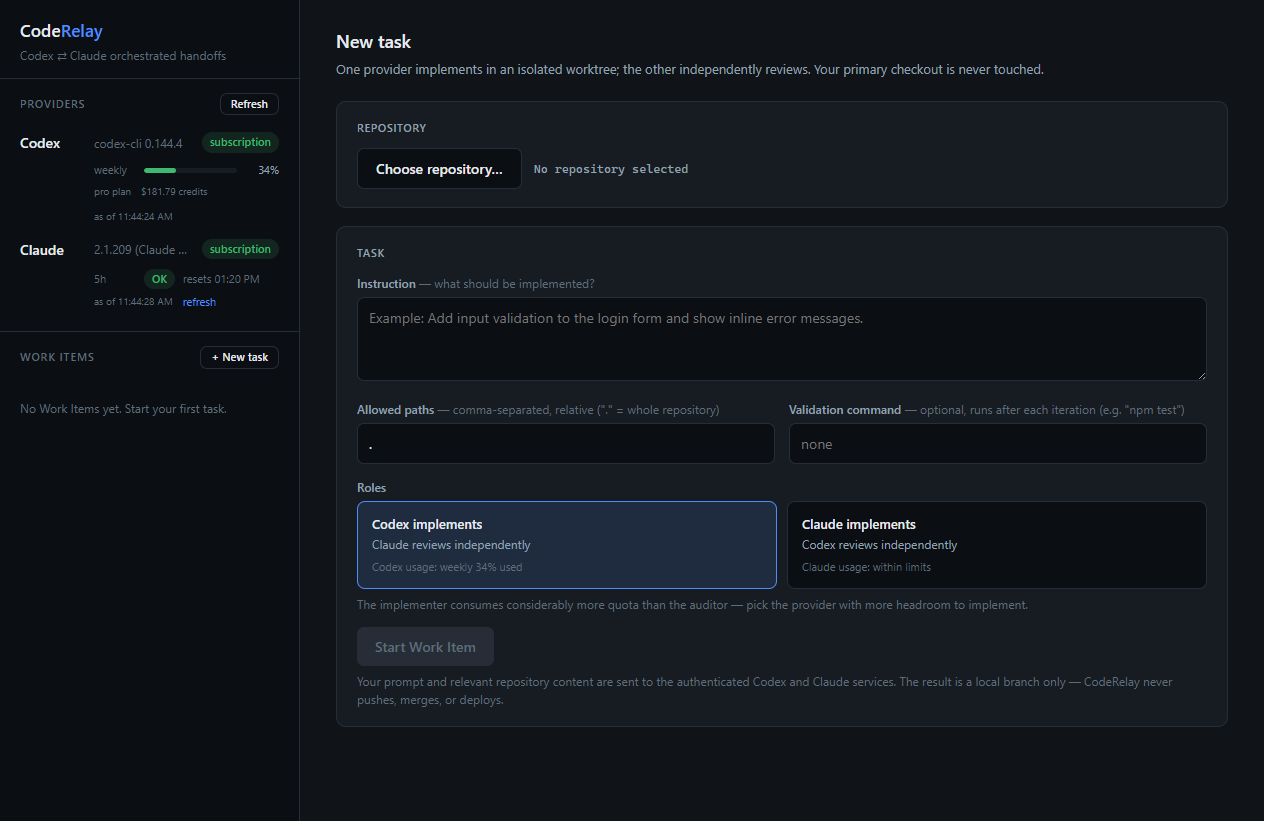
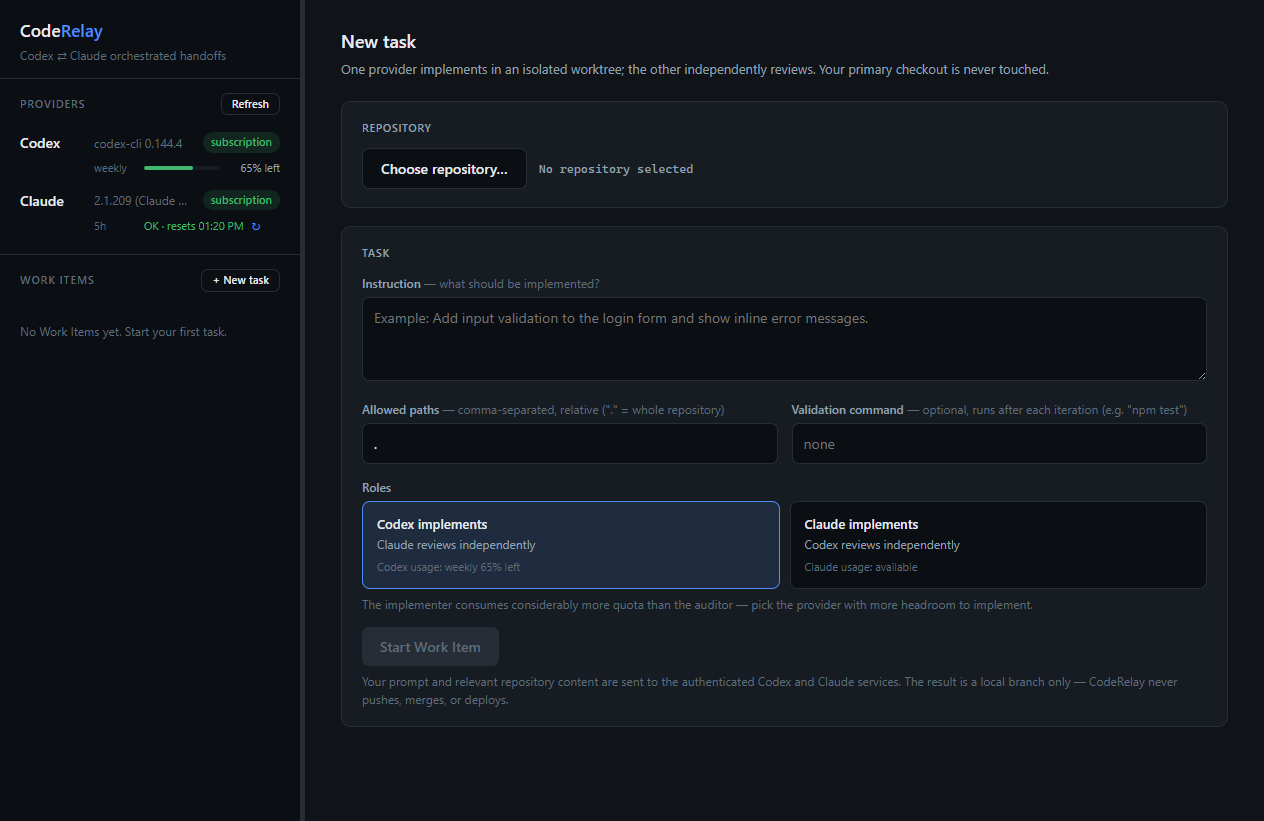
Show remaining quota instead of used, and add IDE-style panel resizing
Usage lines now display percent LEFT (bar length = headroom; green with
plenty, red when nearly exhausted) in a single compact line per window,
with plan, credits, reset time, and capture time folded into a hover
tooltip. The Claude status line is one row with an inline refresh probe.
Role-card hints follow the same remaining-quota wording.

The sidebar/main border is a draggable splitter (220-560px, persisted in
localStorage) and the work item timeline is vertically resizable.

diff --git a/src/app/renderer/App.tsx b/src/app/renderer/App.tsx
@@ -1,5 +1,5 @@
 import { useCallback, useEffect, useMemo, useRef, useState } from "react";
-import type { JSX } from "react";
+import type { JSX, MouseEvent as ReactMouseEvent } from "react";
 import type { PreflightSummary, ProviderStatusEntry, ProviderUsage, WorkItemDetail, WorkItemRow } from "./global.js";
 
 type ProviderPair = { codex: ProviderStatusEntry; claude: ProviderStatusEntry };
@@ -34,17 +34,26 @@ function epochLabel(seconds: number): string {
   return sameDay ? time : `${date.toLocaleDateString([], { month: "short", day: "numeric" })} ${time}`;
 }
 
-function usedBarClass(percent: number): string {
-  if (percent >= 90) return "bad";
-  if (percent >= 70) return "warn";
+function remainingBarClass(remaining: number): string {
+  if (remaining <= 10) return "bad";
+  if (remaining <= 30) return "warn";
   return "good";
+}
+
+function usageTooltip(usage: ProviderUsage, resetsAt?: number | null): string {
+  const parts: string[] = [];
+  if (resetsAt) parts.push(`Resets ${epochLabel(resetsAt)}`);
+  if (usage.planType) parts.push(`${usage.planType} plan`);
+  if (usage.creditsBalance) parts.push(`$${Number(usage.creditsBalance).toFixed(2)} credits`);
+  parts.push(`As of ${timeOf(usage.capturedAt)}`);
+  return parts.join(" · ");
 }
 
 function UsageLines({ usage, onProbe, probing }: { usage: ProviderUsage | null | undefined; onProbe?: () => void; probing?: boolean }): JSX.Element {
   if (!usage) {
     return (
       <div className="usage-block">
-        <span className="usage-note">No usage data yet</span>
+        <span className="usage-note">no usage data</span>
         {onProbe && (
           <button className="linkish" onClick={onProbe} disabled={probing} title="Runs one minimal Claude request to read the current limit status">
             {probing ? "checking…" : "check now"}
@@ -55,32 +64,30 @@ function UsageLines({ usage, onProbe, probing }: { usage: ProviderUsage | null |
   }
   return (
     <div className="usage-block">
-      {usage.windows.map((window) => (
-        <div className="usage-line" key={window.label} title={window.resetsAt ? `Resets ${epochLabel(window.resetsAt)}` : undefined}>
-          <span className="usage-label">{window.label}</span>
-          <span className="usage-bar"><span className={`usage-fill ${usedBarClass(window.usedPercent)}`} style={{ width: `${Math.min(100, window.usedPercent)}%` }} /></span>
-          <span className="usage-percent">{Math.round(window.usedPercent)}%</span>
-        </div>
-      ))}
+      {usage.windows.map((window) => {
+        const remaining = Math.max(0, Math.round(100 - window.usedPercent));
+        return (
+          <div className="usage-line" key={window.label} title={usageTooltip(usage, window.resetsAt)}>
+            <span className="usage-label">{window.label}</span>
+            <span className="usage-bar"><span className={`usage-fill ${remainingBarClass(remaining)}`} style={{ width: `${remaining}%` }} /></span>
+            <span className="usage-percent">{remaining}% left</span>
+          </div>
+        );
+      })}
       {usage.windows.length === 0 && (
-        <div className="usage-line">
+        <div className="usage-line" title={usageTooltip(usage, usage.resetsAt ?? null)}>
           <span className="usage-label">{usage.limitType === "five_hour" ? "5h" : usage.limitType === "seven_day" ? "weekly" : (usage.limitType ?? "limits")}</span>
-          <span className={`badge ${usage.status === "allowed" && !usage.isUsingOverage ? "good" : usage.status === "allowed" ? "warn" : "bad"}`}>
-            {usage.status === "allowed" ? (usage.isUsingOverage ? "using overage" : "OK") : (usage.status ?? "unknown")}
+          <span className={`usage-note ${usage.status === "allowed" && !usage.isUsingOverage ? "ok" : "attention"}`}>
+            {usage.status === "allowed" ? (usage.isUsingOverage ? "overage" : "OK") : (usage.status ?? "unknown")}
+            {usage.resetsAt !== undefined && ` · resets ${epochLabel(usage.resetsAt)}`}
           </span>
-          {usage.resetsAt !== undefined && <span className="usage-note">resets {epochLabel(usage.resetsAt)}</span>}
+          {onProbe && (
+            <button className="linkish" onClick={onProbe} disabled={probing} title="Runs one minimal Claude request to refresh the limit status">
+              {probing ? "…" : "↻"}
+            </button>
+          )}
         </div>
       )}
-      <div className="usage-meta">
-        {usage.planType && <span>{usage.planType} plan</span>}
-        {usage.creditsBalance && <span>${Number(usage.creditsBalance).toFixed(2)} credits</span>}
-        <span>as of {timeOf(usage.capturedAt)}</span>
-        {onProbe && (
-          <button className="linkish" onClick={onProbe} disabled={probing} title="Runs one minimal Claude request to refresh the limit status">
-            {probing ? "checking…" : "refresh"}
-          </button>
-        )}
-      </div>
     </div>
   );
 }
@@ -89,9 +96,9 @@ function usageHint(entry: ProviderStatusEntry | undefined): string {
   const usage = entry?.usage;
   if (!usage) return "";
   if (usage.windows.length > 0) {
-    return usage.windows.map((window) => `${window.label} ${Math.round(window.usedPercent)}% used`).join(" · ");
+    return usage.windows.map((window) => `${window.label} ${Math.max(0, Math.round(100 - window.usedPercent))}% left`).join(" · ");
   }
-  if (usage.status === "allowed") return usage.isUsingOverage ? "within limits (overage)" : "within limits";
+  if (usage.status === "allowed") return usage.isUsingOverage ? "available (overage)" : "available";
   return usage.status ? `limit: ${usage.status}` : "";
 }
 
@@ -148,7 +155,29 @@ export function App(): JSX.Element {
   const [actionError, setActionError] = useState("");
   const [intervention, setIntervention] = useState("");
   const [probingClaude, setProbingClaude] = useState(false);
+  const [sidebarWidth, setSidebarWidth] = useState(() => {
+    const stored = Number(localStorage.getItem("coderelay.sidebarWidth"));
+    return Number.isFinite(stored) && stored >= 220 && stored <= 560 ? stored : 300;
+  });
   const eventsEnd = useRef<HTMLDivElement>(null);
+
+  const beginSidebarResize = (event: ReactMouseEvent): void => {
+    event.preventDefault();
+    const startX = event.clientX;
+    const startWidth = sidebarWidth;
+    const onMove = (move: MouseEvent): void => {
+      const next = Math.min(560, Math.max(220, startWidth + move.clientX - startX));
+      setSidebarWidth(next);
+    };
+    const onUp = (up: MouseEvent): void => {
+      window.removeEventListener("mousemove", onMove);
+      window.removeEventListener("mouseup", onUp);
+      const final = Math.min(560, Math.max(220, startWidth + up.clientX - startX));
+      localStorage.setItem("coderelay.sidebarWidth", String(final));
+    };
+    window.addEventListener("mousemove", onMove);
+    window.addEventListener("mouseup", onUp);
+  };
 
   const refreshProviders = useCallback(() => {
     setProvidersBusy(true);
@@ -276,7 +305,7 @@ export function App(): JSX.Element {
 
   return (
     <div className="layout">
-      <aside className="sidebar">
+      <aside className="sidebar" style={{ width: sidebarWidth, minWidth: sidebarWidth }}>
         <div className="brand">
           <h1>Code<span>Relay</span></h1>
           <p>Codex ⇄ Claude orchestrated handoffs</p>
@@ -334,6 +363,8 @@ export function App(): JSX.Element {
           ))}
         </div>
       </aside>
+
+      <div className="splitter" onMouseDown={beginSidebarResize} title="Drag to resize" />
 
       <main className="main">
         {!selectedId && (

diff --git a/src/app/renderer/styles.css b/src/app/renderer/styles.css
@@ -35,10 +35,19 @@ body {
   width: 300px;
   min-width: 300px;
   background: var(--bg-inset);
-  border-right: 1px solid var(--border);
   display: flex;
   flex-direction: column;
+  overflow: hidden;
 }
+
+.splitter {
+  width: 5px;
+  min-width: 5px;
+  cursor: col-resize;
+  background: var(--border);
+  transition: background 0.15s;
+}
+.splitter:hover, .splitter:active { background: var(--accent); }
 
 .brand {
   padding: 18px 20px 14px;
@@ -90,23 +99,24 @@ body {
 .badge.accent { background: var(--accent-soft); color: var(--accent); }
 .badge.dim { background: rgba(147, 161, 176, 0.12); color: var(--text-dim); }
 
-.usage-block { padding: 0 0 8px 74px; }
-.usage-line { display: flex; align-items: center; gap: 8px; padding: 2px 0; }
+.usage-block { display: flex; flex-direction: column; gap: 2px; padding: 0 0 6px 74px; }
+.usage-line { display: flex; align-items: center; gap: 8px; cursor: default; }
 .usage-label { color: var(--text-faint); font-size: 11px; width: 42px; }
 .usage-bar {
   flex: 1;
-  height: 5px;
+  height: 4px;
   background: var(--bg-raised);
-  border-radius: 3px;
+  border-radius: 2px;
   overflow: hidden;
 }
-.usage-fill { display: block; height: 100%; border-radius: 3px; }
+.usage-fill { display: block; height: 100%; border-radius: 2px; }
 .usage-fill.good { background: var(--good); }
 .usage-fill.warn { background: var(--warn); }
 .usage-fill.bad { background: var(--bad); }
-.usage-percent { color: var(--text-dim); font-size: 11px; width: 34px; text-align: right; font-variant-numeric: tabular-nums; }
-.usage-note { color: var(--text-faint); font-size: 11px; }
-.usage-meta { display: flex; gap: 10px; color: var(--text-faint); font-size: 10px; padding-top: 3px; flex-wrap: wrap; }
+.usage-percent { color: var(--text-dim); font-size: 11px; min-width: 52px; text-align: right; font-variant-numeric: tabular-nums; white-space: nowrap; }
+.usage-note { color: var(--text-faint); font-size: 11px; white-space: nowrap; overflow: hidden; text-overflow: ellipsis; }
+.usage-note.ok { color: var(--good); }
+.usage-note.attention { color: var(--warn); }
 button.linkish {
   background: none;
   border: none;
@@ -237,7 +247,10 @@ button.danger { background: var(--bad-soft); color: var(--bad); }
   background: var(--bg-inset);
   border: 1px solid var(--border);
   border-radius: 8px;
-  max-height: 320px;
+  height: 280px;
+  min-height: 120px;
+  max-height: 70vh;
+  resize: vertical;
   overflow-y: auto;
   font-family: var(--mono);
   font-size: 12px;